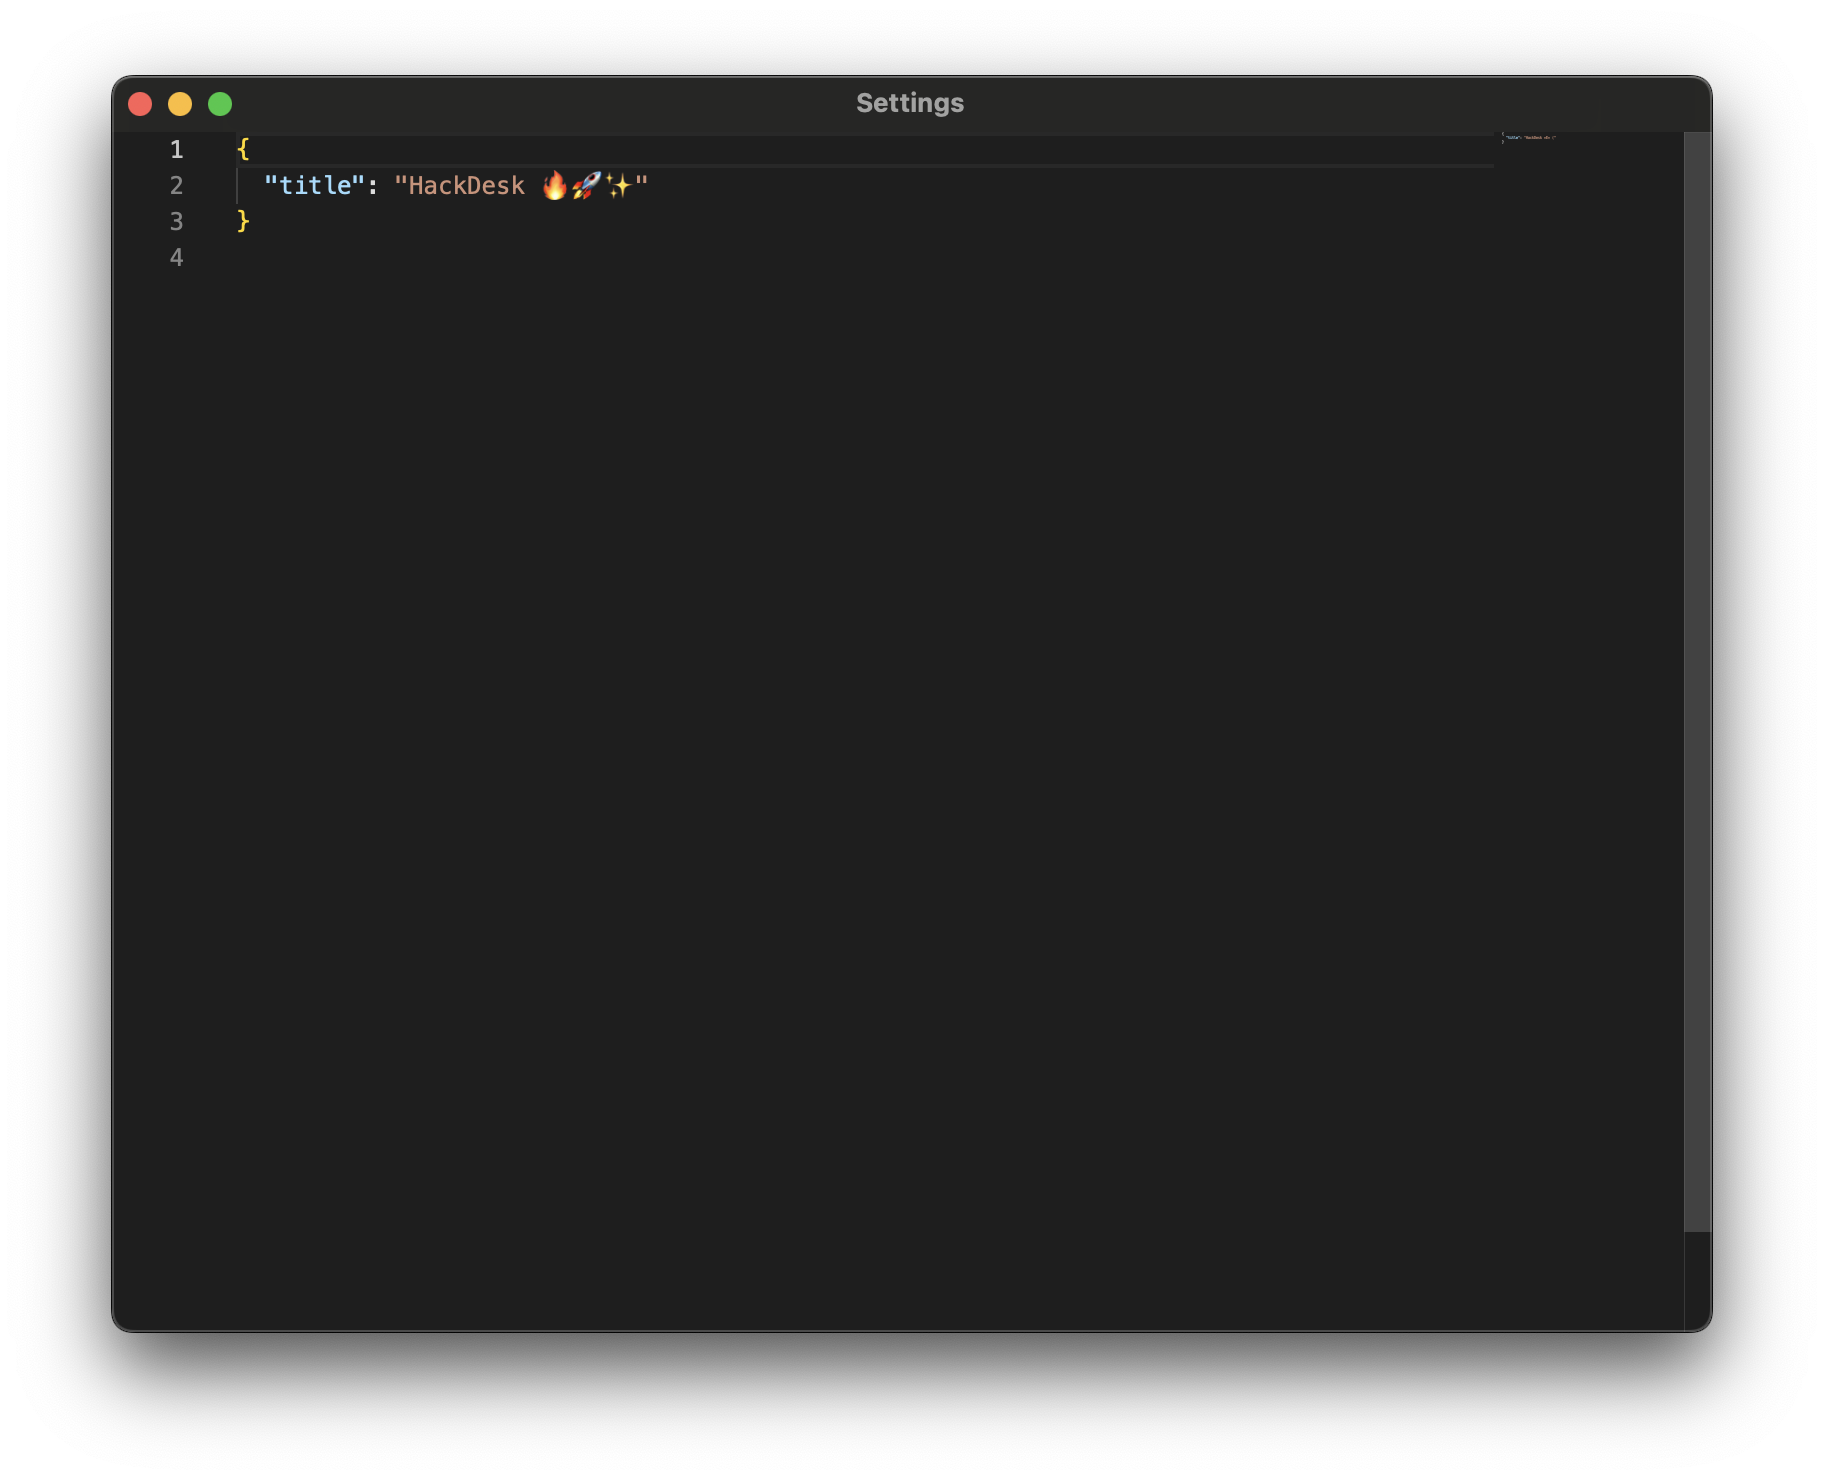
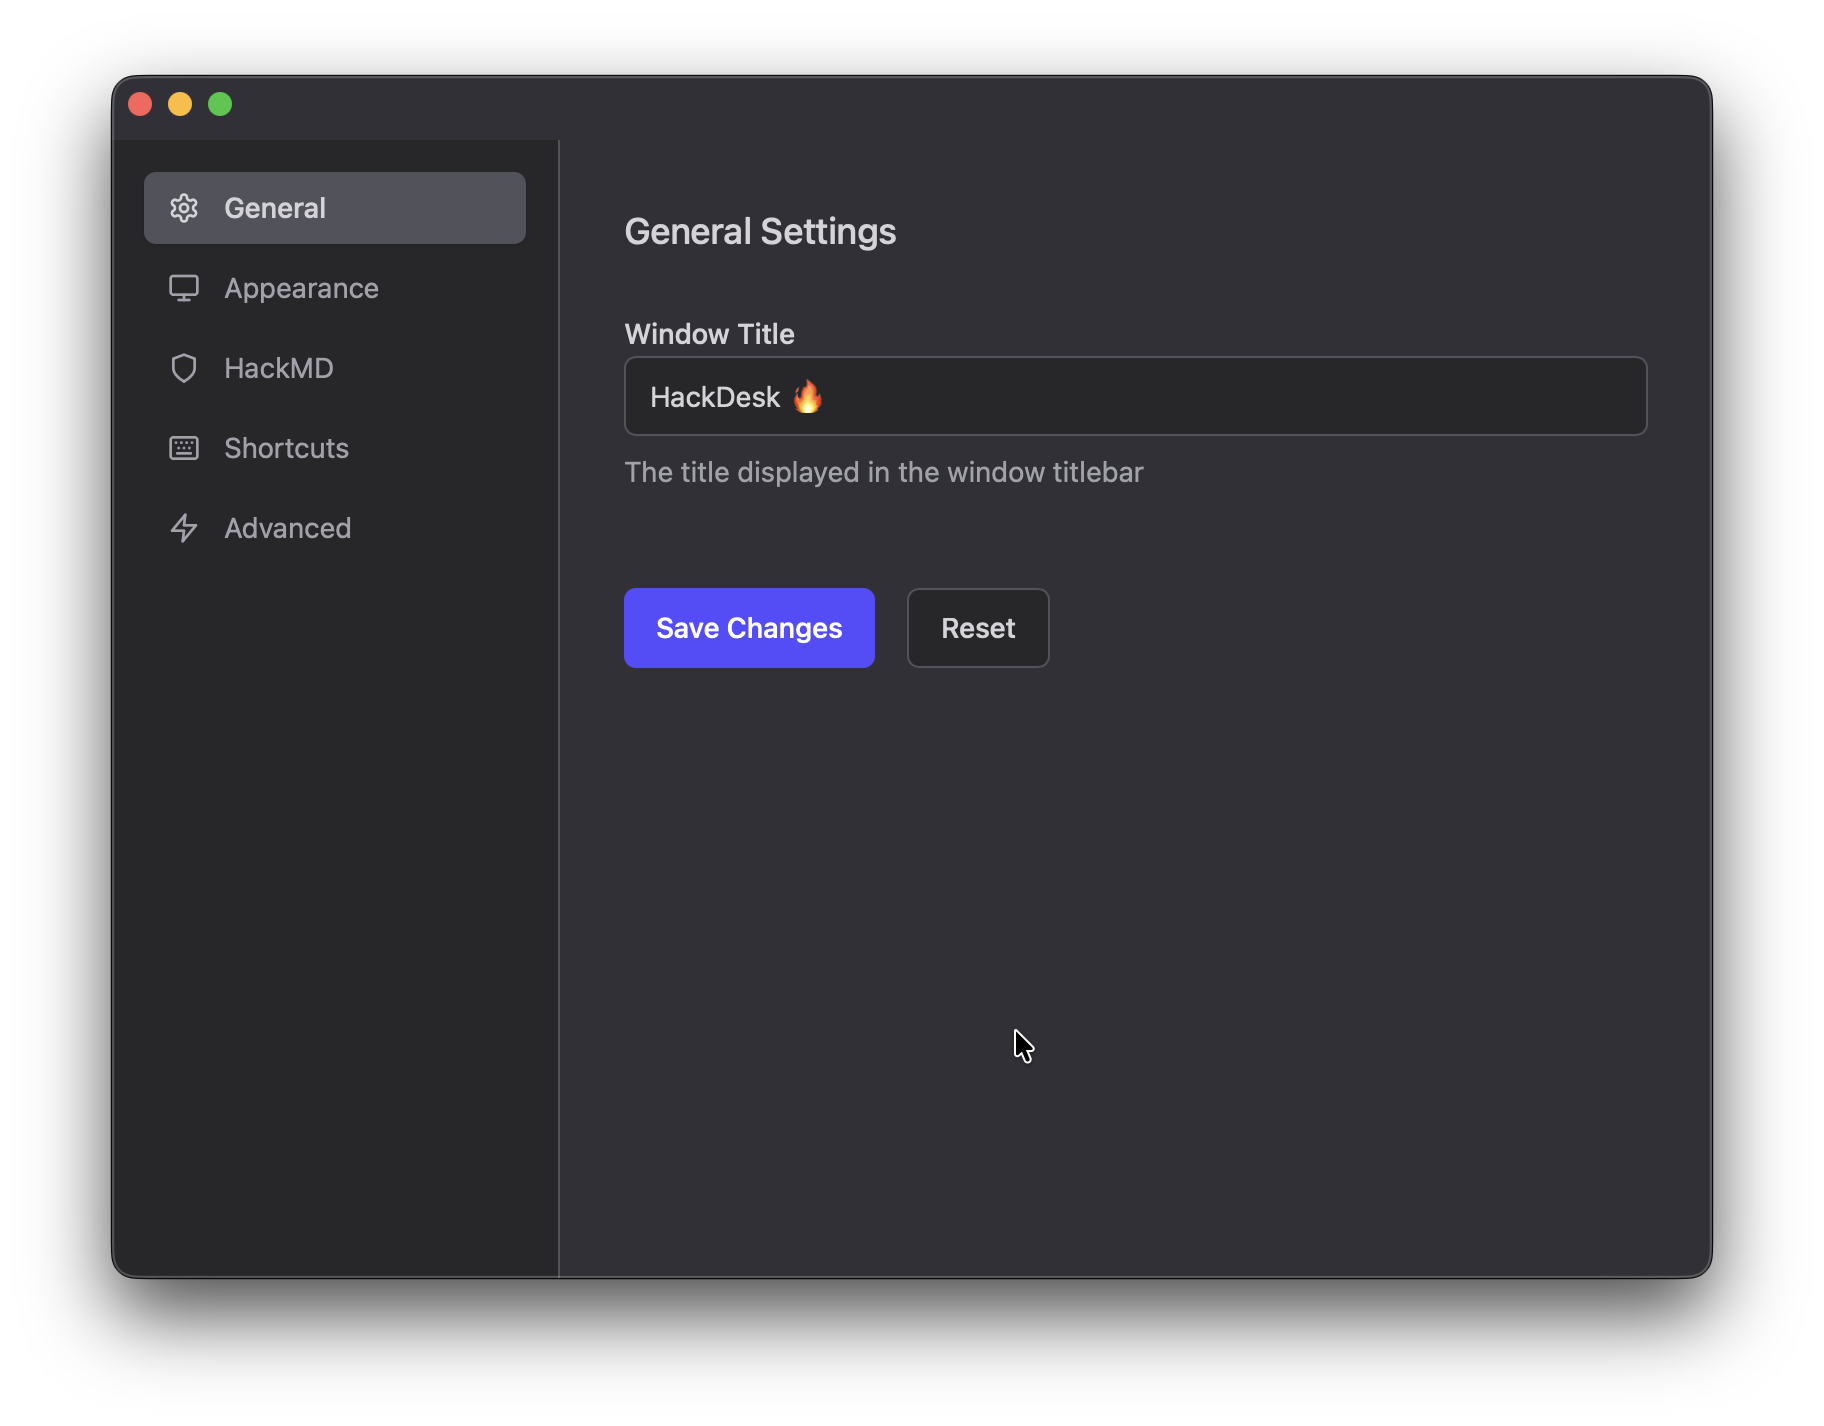
docs: update docs

diff --git a/docs/features.md b/docs/features.md
@@ -10,7 +10,21 @@ outline: deep
 
 `CmdOrCtrl` + `K`
 
-A quick way to execute commands or search.
+A quick way to execute commands, jump between views, and search your HackMD workspace.
+
+- Open common actions like **New Note**, **Reload**, and **HackDesk Settings**
+- Jump to HackMD routes such as search, bookmarks, history, teams, and release notes
+- Unlock extra HackMD commands like **Manage Notes** and **Team Navigation** once your API token is configured
+
+### Manage Notes
+
+![Manage Notes](./public/manage-notes.png)
+
+Inside the command palette, HackDesk can browse your personal notes and team workspaces in one place.
+
+- Search notes instantly and open recent notes without leaving the keyboard
+- Create new notes by typing a title directly in the palette
+- Switch between **My Workspace** and **Team Workspaces** to work across personal and shared notes
 
 ## Custom Settings
 
@@ -18,4 +32,14 @@ A quick way to execute commands or search.
 
 `CmdOrCtrl` + `,`
 
-You can change the theme, shortcuts, and preferences.
+You can change the theme, shortcuts, and local preferences in a dedicated settings window.
+
+### API Integration
+
+![API Integration](./public/api-integration.png)
+
+Connect HackDesk to your HackMD account with a personal access token.
+
+- Save your API token locally in `~/.hackdesk/settings.json`
+- Test the connection before saving to confirm the token works
+- Enable HackMD-powered features such as note browsing, note creation, and team workspace access

diff --git a/README.md b/README.md
@@ -30,6 +30,12 @@ brew install --cask hackdesk
 ```
 
 > [!NOTE]
-> Homebrew no longer supports `--no-quarantine`. HackDesk is currently unsigned, so macOS may block the first launch. If that happens, open the app once from Finder with **Right-click → Open**, or allow it in **System Settings → Privacy & Security**. If you trust the app and prefer the terminal, you can run `xattr -dr com.apple.quarantine /Applications/HackDesk.app`.
+> HackDesk is currently unsigned, so macOS may block the first launch. If that happens, open the app once from Finder with **Right-click → Open**, or allow it in **System Settings → Privacy & Security**.
+>
+> If you trust the app and prefer the terminal, you can run
+>
+> ```sh
+> xattr -dr com.apple.quarantine /Applications/HackDesk.app
+> ```
 
 [Full Guide](https://hackdesk.vercel.app/install.html)

diff --git a/docs/intro.md b/docs/intro.md
@@ -10,12 +10,6 @@ outline: deep
 This project is actively under development, so expect some bugs & missing features.
 :::
 
-HackDesk is an unofficial desktop application for HackMD, powered by [Tauri](https://tauri.app/). It serves as a lightweight wrapper for [hackmd.io](http://hackmd.io). So, you'll find everything you love about HackMD and some additional features ✨.
-
-Thanks to Tauri utilizing the OS's native WebView, the bundle size remains [small](https://tauri.app/v1/references/benchmarks#binary-size), and it's memory-efficient. Please keep in mind that this project is actively under development, so expect some bugs & missing features.
-
-You should also check out the official Electron-based [HackMD desktop app](https://github.com/hackmdio/hackmd-desktop), along with some extra features inspired by the [HackMD Raycast extension](https://www.raycast.com/Yukai/hackmd) and [hackbar](https://github.com/uier/hackbar).
-
-This project was largely inspired by [ChatGPT](https://github.com/lencx/ChatGPT) 🙏.
+HackDesk is a desktop application for HackMD, powered by [Tauri](https://tauri.app/). It serves as a lightweight wrapper for [hackmd.io](https://hackmd.io), so you'll find everything you love about HackMD, plus some additional features ✨.
 
 And you can also follow me on [HackMD](https://hackmd.io/@EastSun5566) 😎

diff --git a/docs/install.md b/docs/install.md
@@ -25,8 +25,6 @@ import { data } from './release.data.ts'
   ```
 
 ::: tip
-Homebrew no longer supports `--no-quarantine`.
-
 HackDesk is currently unsigned, so macOS may block the first launch. If that happens, open the app once from Finder with **Right-click → Open**, or allow it in **System Settings → Privacy & Security**.
 
 Developer cannot be verified?